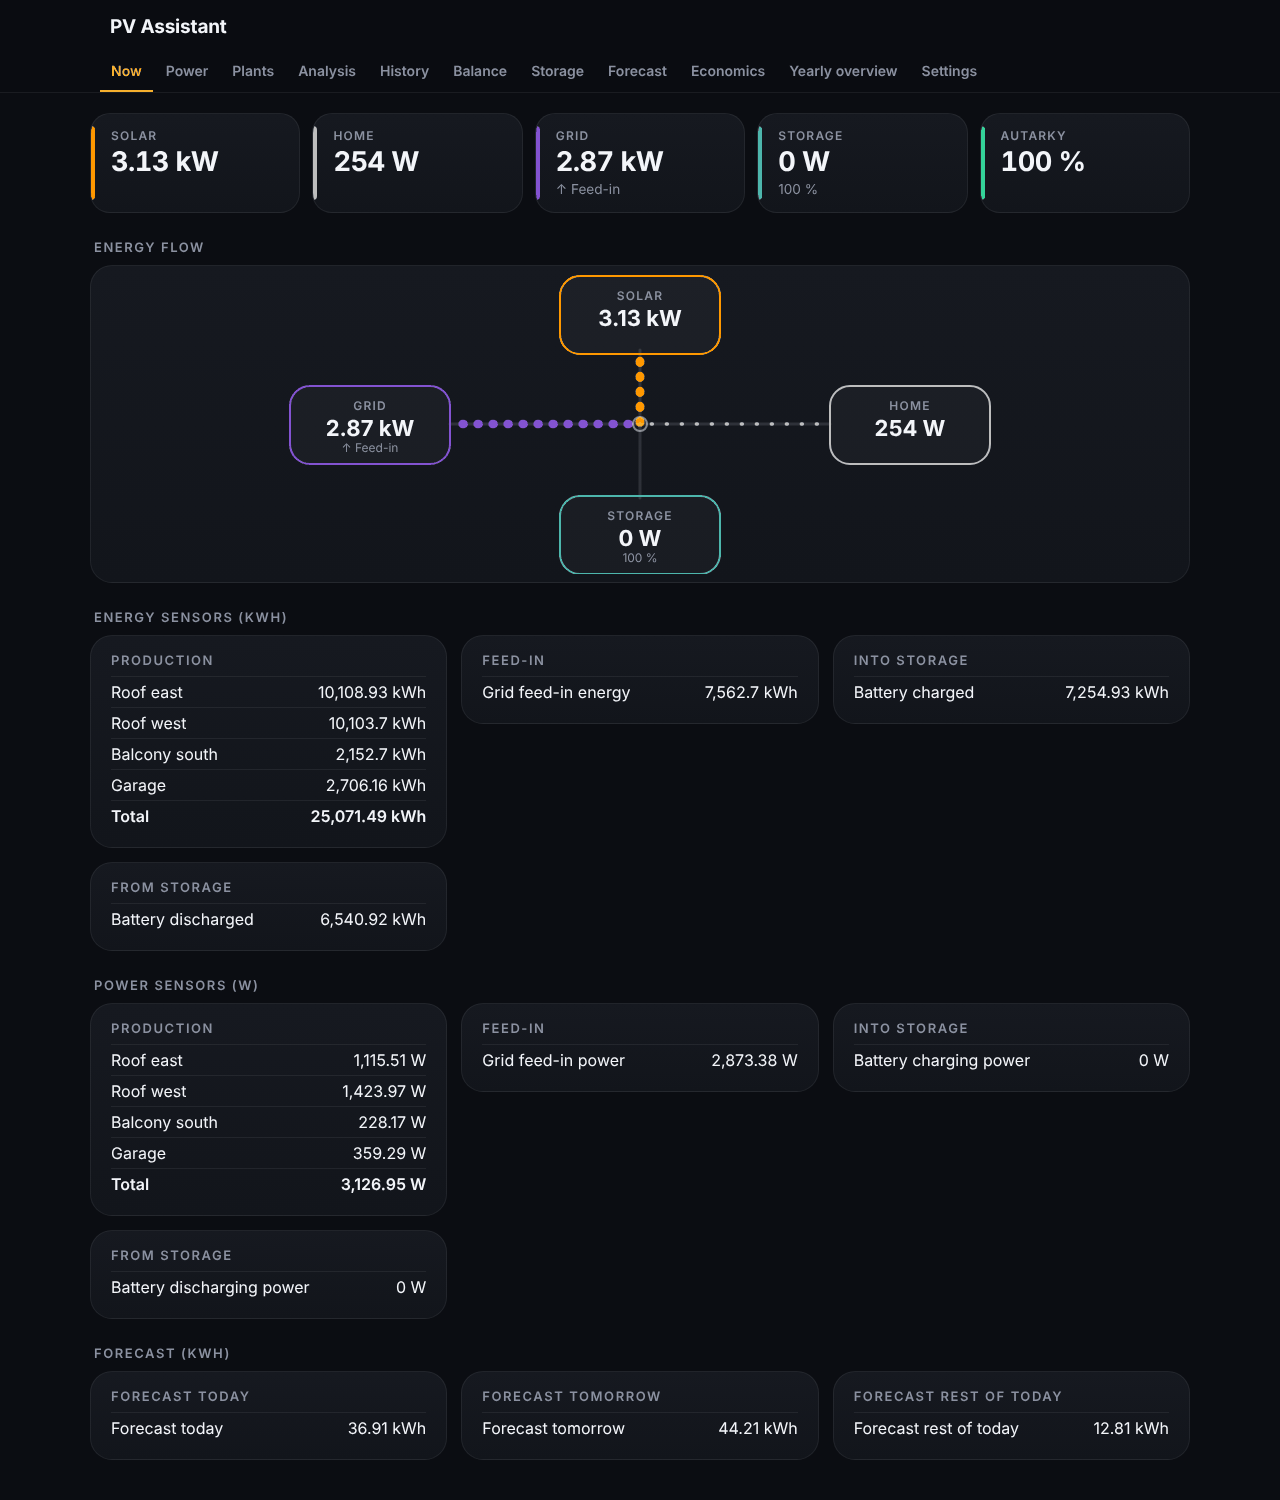
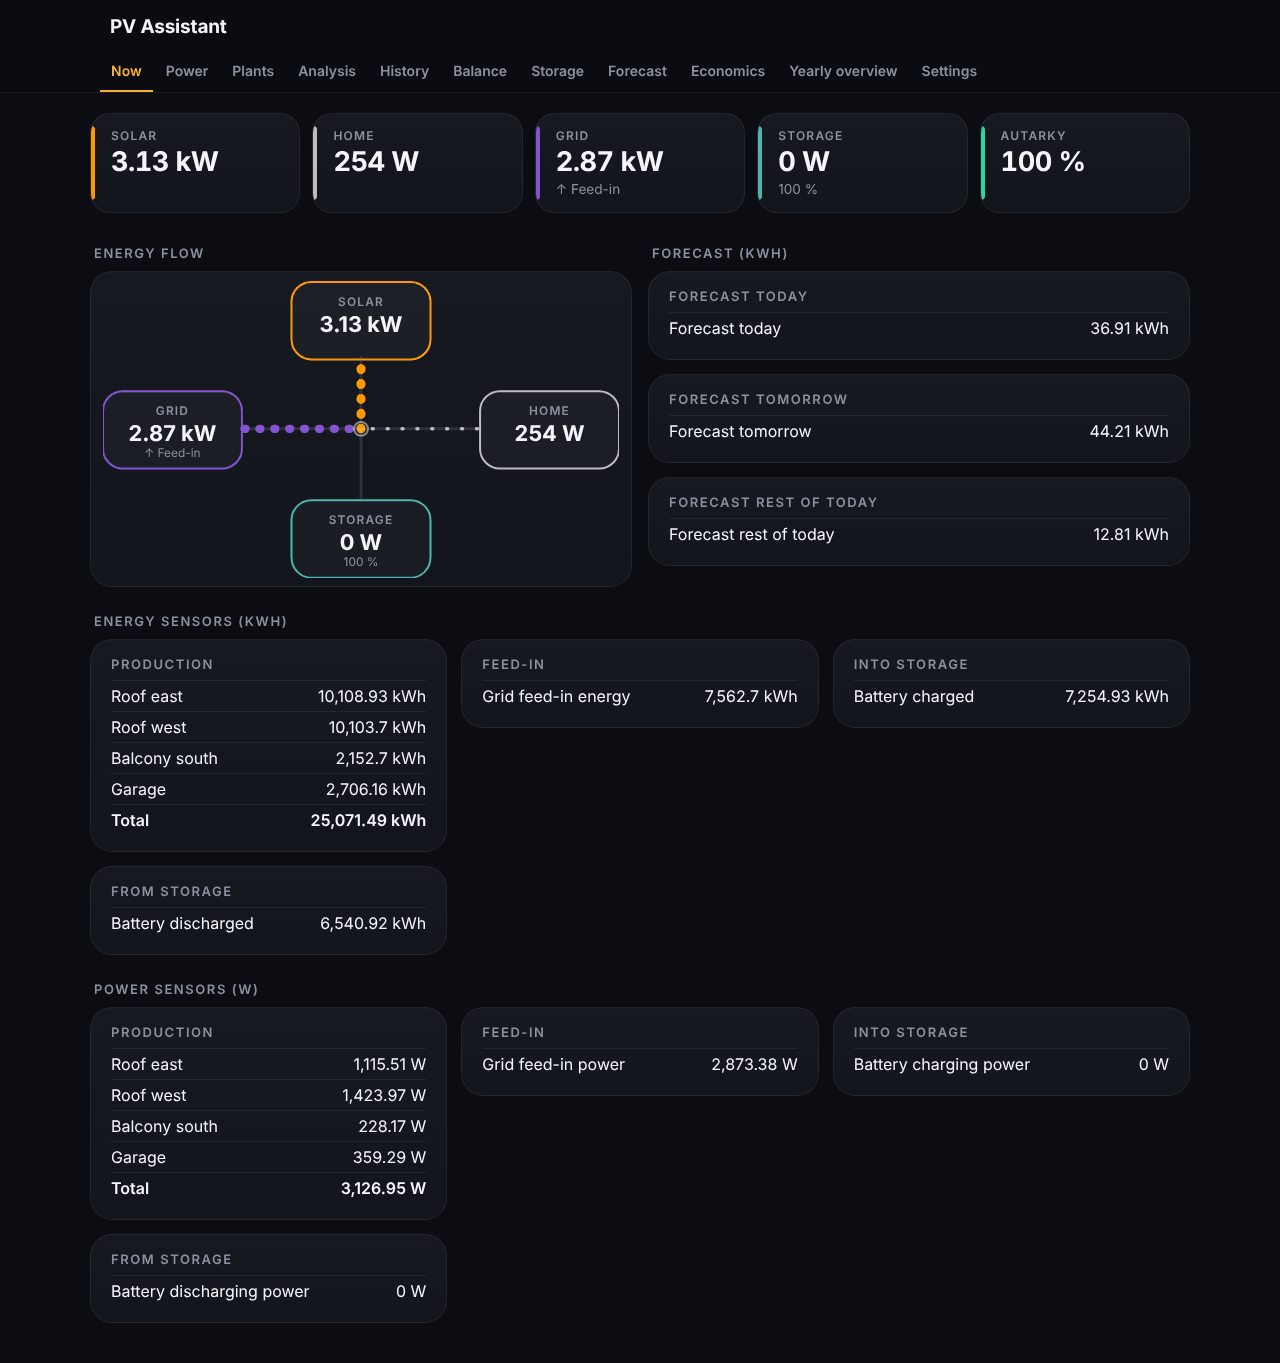
Make energy flow half width and show forecast cards beside it
Claude-Session: https://claude.ai/code/session_01TaJYM5KB2UjSXtUd6GEyfY

diff --git a/custom_components/pv_assistant/frontend/pv-assistant-panel.js b/custom_components/pv_assistant/frontend/pv-assistant-panel.js
@@ -514,8 +514,12 @@ class PVAssistantPanel extends HTMLElement {
           .kpi span { display:block; color:var(--g-muted); font-size:12px; letter-spacing:.1em; text-transform:uppercase; font-weight:600; }
           .kpi b { display:block; font-size:1.7em; font-weight:700; letter-spacing:-.02em; font-variant-numeric:tabular-nums; margin-top:2px; }
           .kpi small { color:var(--g-muted); font-size:.85em; }
+          .nowtop { display:grid; grid-template-columns:minmax(0,1fr) minmax(0,1fr); gap:0 16px; align-items:start; }
+          .nowtop:has(#nowside:empty) { grid-template-columns:minmax(0,560px); }
+          .grid.side { grid-template-columns:1fr; }
+          @media (max-width:820px) { .nowtop { grid-template-columns:1fr; } }
           .flowcard { padding:8px 12px; }
-          svg.flow { display:block; width:100%; max-width:720px; margin:0 auto; color:var(--g-text); }
+          svg.flow { display:block; width:100%; max-width:520px; margin:0 auto; color:var(--g-text); }
           svg.flow .track { fill:none; stroke:currentColor; stroke-width:3; opacity:.12; stroke-linecap:round; }
           svg.flow .run { fill:none; stroke-linecap:round; stroke-dasharray:1 14; animation:pvaflow 1.1s linear infinite; }
           @keyframes pvaflow { to { stroke-dashoffset:-15; } }
@@ -719,11 +723,12 @@ class PVAssistantPanel extends HTMLElement {
     }
     const fc = [["fcToday", "forecast_today_energy_sensors"], ["fcTomorrow", "forecast_tomorrow_energy_sensors"], ["fcRemaining", "forecast_remaining_energy_sensors"]]
       .map(([label, key]) => this._card(this._t(label), list(c[key]), "kWh")).join("");
-    if (fc) html += `<h2>${esc(this._t("fcGroup"))}</h2><div class="grid">${fc}</div>`;
-    if (!html) html = `<p class="muted">${esc(this._t("none"))}</p>`;
+    const side = fc ? `<h2>${esc(this._t("fcGroup"))}</h2><div class="grid side">${fc}</div>` : "";
+    if (!html && !side) html = `<p class="muted">${esc(this._t("none"))}</p>`;
     const now = this._root.getElementById("now");
-    if (!now.querySelector("#nowcards")) now.innerHTML = '<div class="kpis" id="kpis"></div><div id="flow"></div><div id="nowcards"></div>';
+    if (!now.querySelector("#nowcards")) now.innerHTML = '<div class="kpis" id="kpis"></div><div class="nowtop"><div id="flow"></div><div id="nowside"></div></div><div id="nowcards"></div>';
     if (html !== this._last) { this._last = html; now.querySelector("#nowcards").innerHTML = html; }
+    if (side !== this._lastSide) { this._lastSide = side; now.querySelector("#nowside").innerHTML = side; }
     this._renderFlow();
     this._renderPower();
   }
@@ -756,12 +761,12 @@ class PVAssistantPanel extends HTMLElement {
     const NS = "http://www.w3.org/2000/svg";
     const el = (tag, attrs = {}, text) => { const n = document.createElementNS(NS, tag); for (const [k, v] of Object.entries(attrs)) n.setAttribute(k, v); if (text !== undefined) n.textContent = text; return n; };
     // four boxes around a central hub; every spoke runs from its source to the hub or from the hub to its destination
-    const HUB = [360, 150];
+    const HUB = [260, 150];
     const NODES = {
-      solar: { x: 360, y: 40, name: this._t("flowSolar"), color: "--pva-prod", edge: [360, 76] },
-      grid: { x: 90, y: 150, name: this._t("flowGrid"), color: "--pva-grid", edge: [170, 150] },
-      home: { x: 630, y: 150, name: this._t("flowHome"), color: "--pva-house", edge: [550, 150] },
-      bat: { x: 360, y: 260, name: this._t("flowBattery"), color: "--pva-bout", edge: [360, 224] },
+      solar: { x: 260, y: 40, name: this._t("flowSolar"), color: "--pva-prod", edge: [260, 78] },
+      grid: { x: 70, y: 150, name: this._t("flowGrid"), color: "--pva-grid", edge: [140, 150] },
+      home: { x: 450, y: 150, name: this._t("flowHome"), color: "--pva-house", edge: [380, 150] },
+      bat: { x: 260, y: 260, name: this._t("flowBattery"), color: "--pva-bout", edge: [260, 222] },
     };
     if (!this._flowBuilt) {
       this._flowBuilt = true;
@@ -769,7 +774,7 @@ class PVAssistantPanel extends HTMLElement {
       box.innerHTML = `<h2>${esc(this._t("flowTitle"))}</h2>`;
       const card = document.createElement("div");
       card.className = "card flowcard";
-      const svg = el("svg", { viewBox: "0 0 720 300", class: "flow", role: "img", "aria-label": this._t("flowTitle") });
+      const svg = el("svg", { viewBox: "0 0 520 300", class: "flow", role: "img", "aria-label": this._t("flowTitle") });
       for (const [key, n] of Object.entries(NODES)) {
         const d = `M${n.edge[0]},${n.edge[1]} L${HUB[0]},${HUB[1]}`;
         const track = el("path", { d, class: "track" });
@@ -780,7 +785,7 @@ class PVAssistantPanel extends HTMLElement {
       svg.append(el("circle", { cx: HUB[0], cy: HUB[1], r: 7, class: "hub" }));
       for (const [key, n] of Object.entries(NODES)) {
         const g = el("g", { class: "flownode" });
-        const rect = el("rect", { x: n.x - 80, y: n.y - 38, width: 160, height: 78, rx: 20, class: "flowbox", stroke: `var(${n.color})` });
+        const rect = el("rect", { x: n.x - 70, y: n.y - 38, width: 140, height: 78, rx: 20, class: "flowbox", stroke: `var(${n.color})` });
         const name = el("text", { x: n.x, y: n.y - 14, "text-anchor": "middle", class: "flowname" }, n.name);
         const val = el("text", { x: n.x, y: n.y + 12, "text-anchor": "middle", class: "flowval" });
         const sub = el("text", { x: n.x, y: n.y + 28, "text-anchor": "middle", class: "flowsub" });
